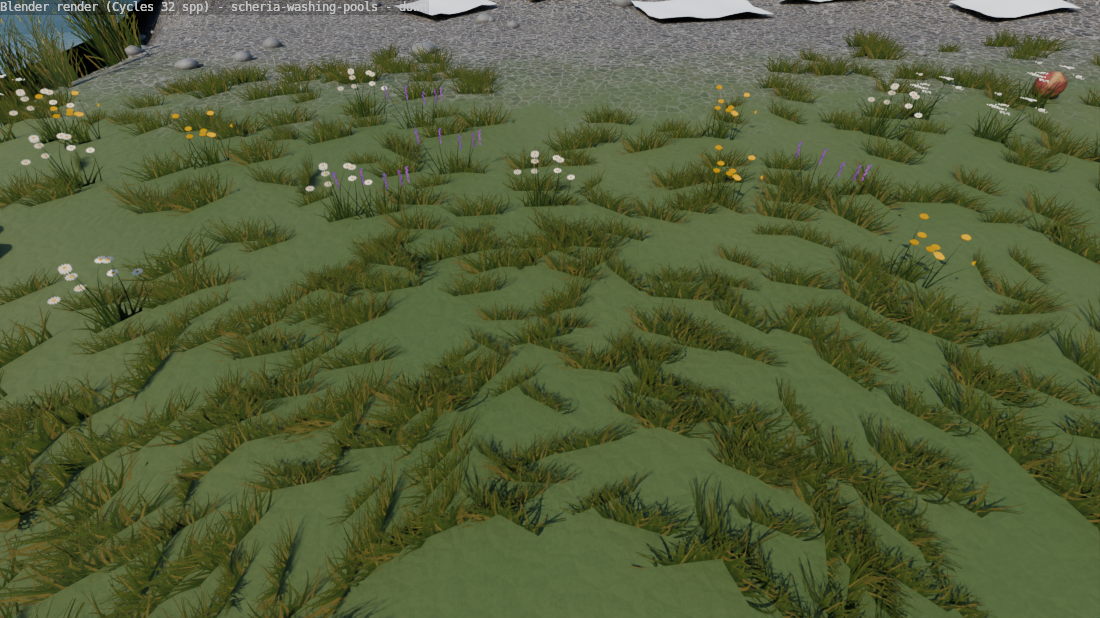
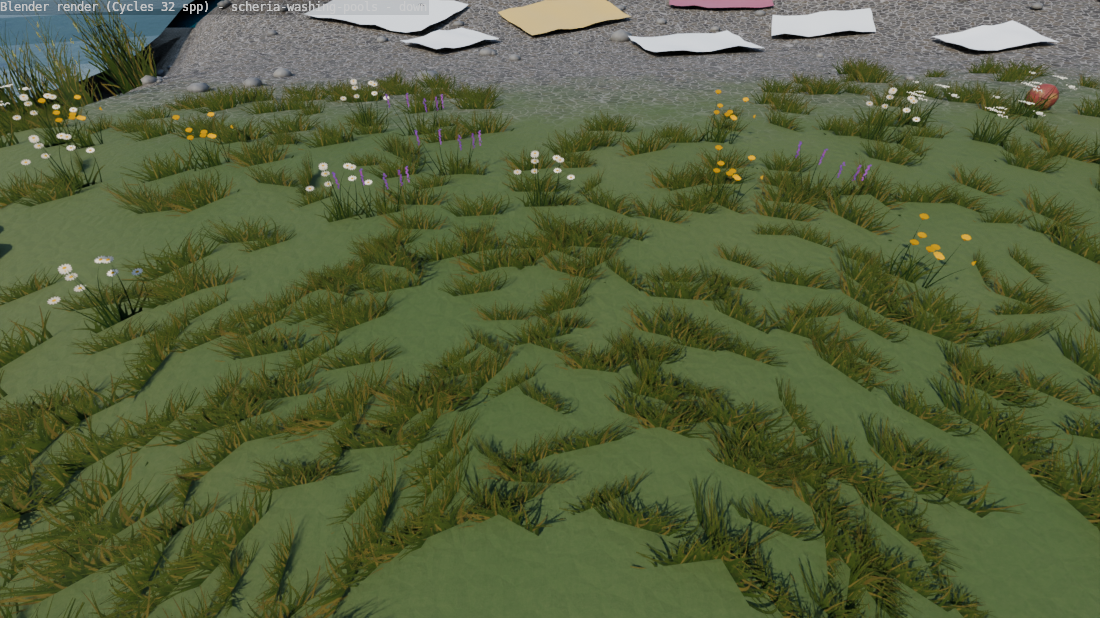
Scene room scheria-washing-pools (odyssey c06): open sea view over a lower shingle ridge
Second pass: the bank raised and the storm ridge of shingle lowered so the reader sees the calm sea over the washing;
the sea rebuilt as a plain grid (no torn triangles at the shore), the shore shelving well below the water, darker
cisterns, pebbles and spit rocks (more, smaller, flatter), larger robes with folds. Republished.

- Triangles: 31,196. Outdoor. Download ~5.3 MB. Sound/wind as before (surf, river, birds, wind-grass; wind 0.4).

Changed region(s): [[0.0, 0.0, 1.0, 0.2767], [0.9582, 0.246, 1.0, 0.2767]]

diff --git a/blender/build_scheria_washing_pools.py b/blender/build_scheria_washing_pools.py
@@ -71,9 +71,9 @@ def spit_mask(x, y):
 def H(x, y):
     # the grassy bank (reader) at ~0.45, falling to the shingle (y 4..8), the storm ridge of shingle (y ~9.5), the shore
     base = 0.45 + 0.25 * fbm2(x, y, 18.0, 3, 2.1) + 0.04 * y * (y < 0) * -1.0
-    beach = lerp(0.45, 0.05, smoothstep(3.5, 8.0, y))
-    ridge = 0.35 * math.exp(-((y - 9.6) ** 2) / 1.6)
-    shore = -0.75 * smoothstep(10.5, 14.5, y)
+    beach = lerp(0.85, 0.05, smoothstep(2.5, 8.0, y))
+    ridge = 0.14 * math.exp(-((y - 9.8) ** 2) / 1.2)
+    shore = -1.6 * smoothstep(10.8, 15.0, y)
     h = beach + (base - 0.45) * (1.0 - smoothstep(3.0, 9.0, y)) + ridge + shore
     h += 0.6 * smoothstep(-10, -35, y) + 2.5 * smoothstep(-20, -40, y)       # rising ground inland behind
     h += 0.5 * spit_mask(x, y)
@@ -168,7 +168,7 @@ def axis_coords(lo, hi, focus, fine, coarse):
         d = min(abs(x - f) for f in focus); x = min(hi, x + lerp(fine, coarse, smoothstep(2.0, 14.0, d))); out.append(x)
     return out
 XS = axis_coords(-NEAR, NEAR, [0.0, -6.5], 0.55, 3.5)
-YS = axis_coords(-NEAR, 26.0, [0.0, 9.5], 0.6, 3.0)
+YS = axis_coords(-NEAR, 20.0, [0.0, 9.5], 0.6, 3.0)
 verts = []; uvs = []
 for y in YS:
     for x in XS:
@@ -178,16 +178,12 @@ faces = [(j * (nx + 1) + i, j * (nx + 1) + i + 1, (j + 1) * (nx + 1) + i + 1, (j
 mesh_from("GroundNear", verts, faces, M_GROUND, smooth=True, uvs=uvs)
 print("ground grid", len(XS), len(YS), flush=True)
 # the sea: a disc of water from the shore out (vertices every ~2.5 m near, coarser far)
-sv = []; sf = []; ring = []
-rs = [0, 6, 14, 26, 45, 80, 140, 260]
-for j, r in enumerate(rs):
-    for i in range(64):
-        a = math.pi * i / 63
-        sv.append((math.cos(a) * (r + 40) * (1 if r else 0) + (0 if r else (i / 63 - 0.5) * 80), SEA_Y - 2 + math.sin(a) * r, SEA_Z - Z0))
-for j in range(len(rs) - 1):
-    for i in range(63):
-        sf.append((j * 64 + i, j * 64 + i + 1, (j + 1) * 64 + i + 1, (j + 1) * 64 + i))
-mesh_from("water.ocean.bay", sv, sf, M_SEA, uvs=[((v[0] + 300) / 600, (v[1] + 300) / 600) for v in sv])
+sv = []; sf = []; ys_ = [SEA_Y - 3, SEA_Y + 3, SEA_Y + 10, SEA_Y + 20, SEA_Y + 36, SEA_Y + 64, SEA_Y + 120, SEA_Y + 230]; NXS = 41
+for yy in ys_:
+    for i in range(NXS): sv.append((-260 + i * 13.0, yy, SEA_Z - Z0))
+for j in range(len(ys_) - 1):
+    for i in range(NXS - 1): sf.append((j * NXS + i, j * NXS + i + 1, (j + 1) * NXS + i + 1, (j + 1) * NXS + i))
+mesh_from("water.ocean.bay", sv, sf, M_SEA, uvs=[((v[0] + 260) / 520, (v[1] - SEA_Y + 3) / 250) for v in sv])
 # the river: a ribbon from upstream to its mouth, V downstream
 pts = []
 for (x0, y0), (x1, y1) in zip(RIVER, RIVER[1:]):
@@ -258,7 +254,8 @@ box("Spout", (0.5, 0.18, 0.08), (-4.4, -0.7, gz(-4.4, -0.7) - 0.05), M_STONE)
 print("washing ...", flush=True)
 WASH = MB()
 tone_cols = []
-PIECES = [((1.8, 7.0), 1.4, 1.0, 0.2, (0.84, 0.82, 0.76)), ((3.6, 7.6), 1.2, 0.8, -0.3, (0.80, 0.78, 0.72)), ((0.2, 8.4), 1.6, 1.1, 0.5, (0.62, 0.42, 0.10)),
+PIECES = [((-2.4, 8.6), 2.0, 1.3, -0.4, (0.80, 0.78, 0.72)), ((5.2, 9.3), 1.9, 1.2, 0.6, (0.22, 0.30, 0.48)), ((7.4, 6.8), 1.5, 1.0, -0.2, (0.84, 0.82, 0.76)),
+          ((1.8, 7.0), 1.4, 1.0, 0.2, (0.84, 0.82, 0.76)), ((3.6, 7.6), 1.2, 0.8, -0.3, (0.80, 0.78, 0.72)), ((0.2, 8.4), 1.6, 1.1, 0.5, (0.62, 0.42, 0.10)),
           ((4.9, 6.2), 0.9, 0.7, 0.1, (0.86, 0.84, 0.78)), ((2.6, 9.1), 1.5, 0.9, -0.15, (0.36, 0.09, 0.14)), ((-1.3, 7.3), 1.0, 0.8, 0.8, (0.82, 0.80, 0.74)),
           ((6.2, 8.4), 1.3, 0.9, 0.35, (0.78, 0.76, 0.70)), ((1.0, 10.2), 1.8, 0.35, 0.1, (0.70, 0.12, 0.08))]
 for (c, L, W, yaw, colr) in PIECES:
@@ -290,10 +287,11 @@ for i in range(420):
 PB.build("Pebbles", M_PEBBLE, sway=False)
 # the rocky spit and rocks along the shore on the right
 RK = MB(); rr = random.Random(12)
-for i in range(46):
-    s = rr.uniform(0, 1); x = lerp(7.5, 20.0, s) + rr.gauss(0, 1.4); y = lerp(10.0, 30.0, s) + rr.gauss(0, 1.2)
-    r_ = rr.uniform(0.4, 1.4) * (1.0 - 0.4 * s)
-    B.blob(RK, (x, y, gz(x, y) + r_ * 0.1), (r_ * 1.3, r_, r_ * 0.6), 100 + i, sub=1, rough=0.3)
+for i in range(90):
+    s = rr.uniform(0, 1); x = lerp(7.5, 20.0, s) + rr.gauss(0, 1.2); y = lerp(10.0, 30.0, s) + rr.gauss(0, 1.0)
+    r_ = rr.uniform(0.25, 0.9) * (1.0 - 0.4 * s)
+    zt = max(gz(x, y), SEA_Z - Z0 - 0.1)
+    B.blob(RK, (x, y, zt - r_ * 0.15), (r_ * 1.5, r_ * rr.uniform(0.8, 1.2), r_ * 0.45), 100 + i, sub=1, rough=0.4)
 RK.build("SpitRocks", M_ROCK, sway=False)
 
 # ----------------------------------------------------------------------------- the mule waggon, unharnessed, pole down; the picnic
